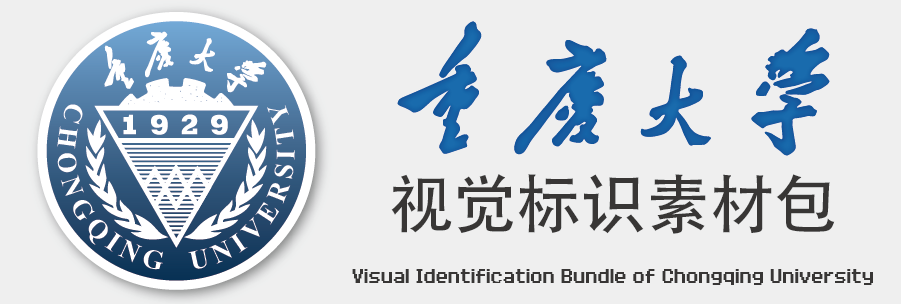
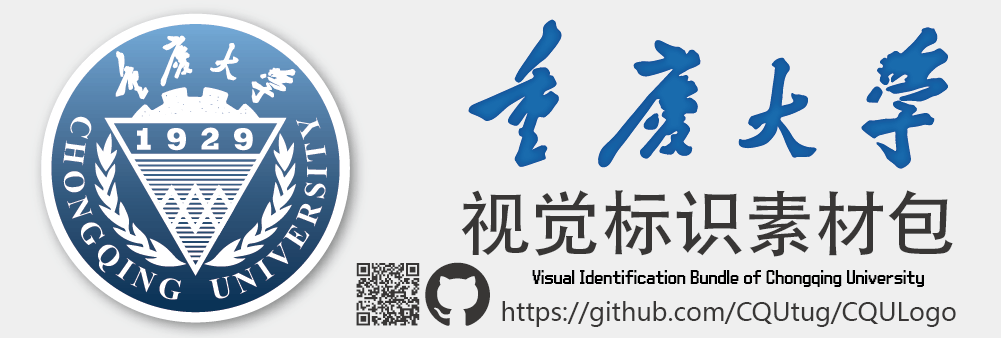
更新授权和豁免文件

diff --git a/README.md b/README.md
@@ -1,2 +1,62 @@
+![CQULogo-重庆大学视觉标识的非官方素材包](https://github.com/CQUtug/CQULogo/raw/master/title.png)
+
 # CQULogo
-重庆大学视觉标识素材包 --- Visual Identification Bundle of Chongqing University
+CQULogo是重庆大学视觉标识的非官方素材包，包含多种颜色，多个格式（矢量、栅格）的重庆大学校徽和校名的去背图片（图形），还原忠实，合规性好，用于满足学校师生对高质量重庆大学校徽校名图片的需求。
+
+CQULogo的设计用于满足以下场景对重庆大学校徽和校名的标识需求：
+* 论文封面（如TeX和Word）；
+* 幻灯片（如PowerPoint和Keynote）；
+* 学术或社团的海报（如Illustrator和Photoshop）；
+* 其他非营利性，不涉及侵权的作品。
+
+# 包含内容
+## 标识颜色
+CQULogo提供以下颜色的校徽：
+
+| 校徽颜色 | 示例（`*-screen.png`） |
+|:--------:|:--------------------:|
+| 蓝色 |  ![重庆大学校徽-蓝色](https://github.com/CQUtug/CQULogo/raw/master/%E8%93%9D%E8%89%B2/%E6%A0%A1%E5%BE%BD%EF%BC%88%E8%93%9D%E8%89%B2%EF%BC%89-Screen.png)  |
+| 灰色 | ![重庆大学校徽-灰色](https://github.com/CQUtug/CQULogo/raw/master/%E7%81%B0%E8%89%B2/%E6%A0%A1%E5%BE%BD%EF%BC%88%E7%81%B0%E8%89%B2%EF%BC%89-Screen.png) |
+| 黑色 | ![重庆大学校徽-黑色](https://github.com/CQUtug/CQULogo/raw/master/%E9%BB%91%E8%89%B2/%E6%A0%A1%E5%BE%BD%EF%BC%88%E9%BB%91%E8%89%B2%EF%BC%89-Screen.png) |
+| 白色（需黑底） |  ![重庆大学校徽-白色](https://github.com/CQUtug/CQULogo/raw/master/%E7%99%BD%E8%89%B2/%E6%A0%A1%E5%BE%BD%EF%BC%88%E7%99%BD%E8%89%B2%EF%BC%89-Screen.png) |
+| 蓝色渐变 | ![重庆大学校徽-蓝色渐变](https://github.com/CQUtug/CQULogo/raw/master/%E8%93%9D%E8%89%B2%E6%B8%90%E5%8F%98/%E6%A0%A1%E5%BE%BD%EF%BC%88%E8%93%9D%E8%89%B2%E6%B8%90%E5%8F%98%EF%BC%89-Screen.png) |
+
+CQULogo提供的校名颜色与以上校徽颜色对应（蓝色渐变未提供），校名有含英文和不含英文两个版本：
+
+| 校名类型 | 示例（*-screen.png） |
+|:--------:|:--------------------:|
+| 含英文 | ![重庆大学校名毛笔字-含英文](https://github.com/CQUtug/CQULogo/raw/master/%E8%93%9D%E8%89%B2/%E6%A0%A1%E5%90%8D%EF%BC%88%E8%93%9D%E8%89%B2%E5%B8%A6%E8%8B%B1%E6%96%87%EF%BC%89-Screen.png) |
+| 不含英文 | ![重庆大学校名毛笔字-不含英文](https://github.com/CQUtug/CQULogo/raw/master/%E8%93%9D%E8%89%B2/%E6%A0%A1%E5%90%8D%EF%BC%88%E8%93%9D%E8%89%B2%EF%BC%89-Screen.png) |
+
+## 文件格式
+
+| 文件格式 | 描述 |
+|:--------:|-------------------------------------------------------------------|
+| PNG | 栅格图形，背景透明，面向Microsoft Office用户及其他一般用途。 |
+| PDF | 矢量图形，面向TeX用户，使用`\includegraphics`命令即可导入到文档当中。 |
+| SVG | 矢量图形，面向Adobe用户，适合作为设计素材。 |
+
+其中，`PNG`格式的图片有三个子类型：
+
+| 文件名后缀 | 描述 |
+|:-----------:|----------------------------------------------------|
+| Print 50mm | 用于打印，设定的实际图形大小不应大于50mm. |
+| Print 100mm | 用于打印，设定的实际图形大小介于50mm~100mm. |
+| Screen | 用于屏幕显示或投影，如用在演讲用的PowerPoint文档中。 |
+
+
+# 授权许可和责任豁免
+
+在使用本素材包（CQULogo）之前，您需要理解和同意以下内容：
+
+* CQULogo由[重庆大学TeX用户组](https://github.com/CQUtug)为您制作和呈现；
+* CQULogo中的所有图案、标识、文字及其组合的版权均归[重庆大学](http://www.cqu.edu.cn/Channel/000-002-001-003/1/index.html)所有；
+* 制作本素材包的目的仅仅是对重庆大学视觉识别标识的合法合情使用提供便利，素材库的作者及存储和下载服务提供者对使用本素材包所产生的后果不承担任何直接或间接责任；
+* 任何在本素材包的基础上进行的衍生、创作或其他任何行为所可能直接或间接引发的法律纠纷均由行为人自行承担相应法律责任，包括但不限于滥用学校标志、未经授权的商业的使用以及恶意篡改等。
+
+本素材包开放转载，在转载时，您需要保持本素材包文件结构和内容的完整（包括但不限于本README文件，矢量图形和栅格图片），并且在转载页面做出以下明显标识，包含超链接：
+
+© [重庆大学](http://www.cqu.edu.cn/Channel/000-002-001-003/1/index.html) 保留所有权利。
+内容由[重庆大学TeX用户组](https://github.com/CQUtug)制作。
+
+
